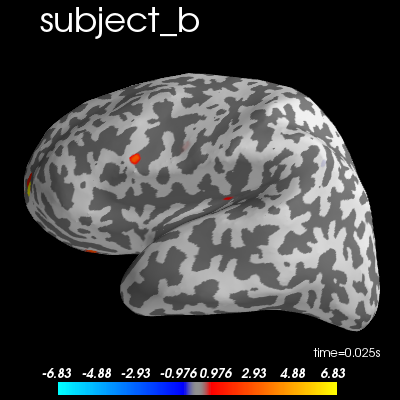
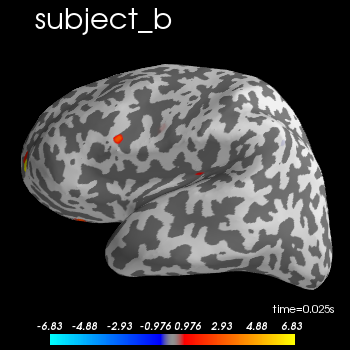
rebuilt docs

diff --git a/searchindex.js b/searchindex.js
@@ -1,1 +1,1 @@
-Search.setIndex({docnames:["api","auto_examples/index","auto_examples/plot_group_lasso","auto_examples/plot_process_meg","auto_examples/sg_execution_times","generated/groupmne.compute_fwd","generated/groupmne.compute_group_inverse","generated/groupmne.compute_inv_data","index"],envversion:{"sphinx.domains.c":1,"sphinx.domains.changeset":1,"sphinx.domains.citation":1,"sphinx.domains.cpp":1,"sphinx.domains.javascript":1,"sphinx.domains.math":2,"sphinx.domains.python":1,"sphinx.domains.rst":1,"sphinx.domains.std":1,"sphinx.ext.intersphinx":1,"sphinx.ext.viewcode":1,sphinx:56},filenames:["api.rst","auto_examples/index.rst","auto_examples/plot_group_lasso.rst","auto_examples/plot_process_meg.rst","auto_examples/sg_execution_times.rst","generated/groupmne.compute_fwd.rst","generated/groupmne.compute_group_inverse.rst","generated/groupmne.compute_inv_data.rst","index.rst"],objects:{groupmne:{compute_fwd:[5,0,1,""],compute_group_inverse:[6,0,1,""],compute_inv_data:[7,0,1,""]}},objnames:{"0":["py","function","Python function"]},objtypes:{"0":"py:function"},terms:{"300m":[2,3],"50m":[2,3],"default":6,"final":7,"float":[6,7],"function":[0,2],"import":[2,3],"int":6,"return":[2,3,6,7],"true":[2,3,6],"while":[],Doing:2,For:[2,6,8],IDs:2,Not:2,The:[2,3,6,8],Using:[2,7],abs:2,across:[2,6,7],activ:[2,6,8],add_proj:[],add_text:2,addit:6,after:[2,3],aim:[2,3],align:[2,7],all:[1,6,8],alpha:[2,6],alpha_max:6,ani:8,append:[2,3],appli:2,argument:6,arrai:[6,7],aspect:[],assum:[],author:[2,3],auto_exampl:4,auto_examples_jupyt:1,auto_examples_python:1,autossp:2,avail:2,ave:[],averag:[2,3],axes:[2,3],baselin:[2,3],been:[],befor:[2,3],bem:2,bem_fnam:5,bem_fname_:2,between:2,bind:8,bool:6,brain:2,bsd:[2,3],bug:8,call:[],can:[2,7],categori:[],ch_type:[2,7],channel:[2,7],claus:[2,3],click:[2,3],clim:2,clone:8,closer:2,code:[1,2,3],com:8,compens:2,comput:[2,3,7],compute_covari:[2,3],compute_fwd:2,compute_gain:6,compute_group_invers:2,compute_inv_data:[2,6],conda:8,condit:[2,3],congruent:8,consid:[],contain:2,correct:2,cov:[2,3,7],cov_fnam:[2,3],cov_nam:[],cov_name_:[],covari:[2,3,7],creat:[2,8],ctf:[],current:2,data:[6,7],data_path:[2,3],dataset:[2,3],decim:2,def:[2,3],del:3,depth:[2,6],develop:8,dict:[2,3,6,7],dictionari:2,dim:2,dimens:2,document:[],done:6,dorsal:2,download:1,each:[2,3,6,7],eeg:[6,7,8],eigenvalu:2,element:7,els:2,encount:8,end:[2,3],env:8,environ:[2,3,8],eof:[],epoch:[2,3],epochs_:2,eps:2,estim:[2,3,6,7],ev_nam:[],ev_name_:[],event:[2,3],event_id:[2,3],evok:[2,7],evoked_:[2,3],exampl:[2,3],execut:4,exist:2,expandus:[2,3],fals:[2,3],fetch:2,few:[2,3],fif:[2,3],file:[2,4,8],find_ev:[2,3],first:[2,3],follow:2,fontsiz:[2,3],forward:[6,7],found:2,fraction:6,freesurf:2,frequenc:2,from:[2,3],fsaverag:[2,5],full:[2,3],further:8,fwd:[2,7],gain:[2,6,7],galleri:[1,2,3],gener:[2,3],geometri:2,get_epoch_cov:3,get_src_refer:2,git:8,github:8,grad:[2,3,7],grade:2,group:[3,6,7],group_info:[2,6,7],group_model:[2,6],grouplasso:[2,6],groupmn:[2,8],guarante:2,gyri:2,have:[],help:8,hemi:2,here:[2,3],hf_sef:[2,3],hf_sef_15min:[],hf_sef_15min_raw:[2,3],hicham:[2,3,8],hichamjanati:[2,8],high:2,how:[2,3],http:8,hyperparamet:6,ico:2,icosahedr:2,icosahedron:2,idl:2,improv:2,independ:6,info:[2,3,5],inform:[7,8],initi:7,initial_tim:2,inria:[2,3,8],instanc:7,instant:[2,3],interest:[],introductori:1,invalid:[],invers:[6,8],ipynb:[2,3],item:2,janati:[2,3,8],joint:[1,4,6],jointli:[3,8],jupyt:[1,2,3],kind:2,kwarg:6,lasso:[3,6],last:[],later:2,leverag:2,licens:[2,3],line:[],list:7,load:2,local:[1,4,6],locat:2,log:2,mag:[2,7],mani:8,map:[2,7],match:2,matplotlib:[2,3],matric:7,matrix:2,max:2,mean:[2,3],meg:8,meg_path:[2,3],memori:[],metadata:2,method:[2,6],mindist:[2,5],minim:8,minut:[2,3],mne:[2,3],mne_data:2,mode:2,model:[1,4,6,7],more:7,morph:[2,5,7],most:[],mri:2,multi:[1,4],n_channel:[6,7],n_job:[2,6],n_sourc:[2,6,7],n_subject:[6,7],n_time:[6,7],nave:[],nearest:2,need:2,neighbor:2,nois:[2,3,7],noise_cov:2,noise_cov_:[2,3,7],none:[2,3,5],normal:[2,6],notebook:[1,2,3],now:[2,6],nurminen:2,object:6,omit:2,one:[2,7],onli:[2,6],open:2,oper:[2,7],option:6,otherwis:[6,8],out:2,overlap:6,packag:8,parallel:2,parallel_func:2,paramet:[2,6,7],pars:[],pass:6,path:[2,3],pattern:2,pca:2,perform:8,pick:[2,3],pick_typ:[2,3],pleas:8,plot:[2,3],plot_group_lasso:[2,4],plot_process_meg:3,plt:[2,3],point:[2,6,7],pos_lim:2,print:[2,3],problem:[6,8],process:[],process_meg:2,proj:[2,3],project:2,projector:2,promot:6,provid:2,purpos:[2,3],pyplot:[2,3],python:[1,2,3,8],rang:2,rank:2,ravel:[2,3],raw:[2,3],raw_nam:[2,3],raw_name_:[2,3],read:2,read_cov:2,read_evok:[],read_raw_fif:[2,3],readi:2,recent:[],recommend:8,reconstruct:7,refer:7,regular:[6,8],requir:2,resolut:2,respect:7,return_stc:[2,6],run:2,run_func:2,same:2,script:2,sec:2,second:2,see:[3,8],sef:[2,3],sef_right:[],sef_right_raw:[2,3],select:2,self:[],set:[2,6],set_titl:[2,3],setup:8,shape:2,sharei:[2,3],show:[2,3],shown:[],similar:2,sinc:2,singular:2,size:2,small:[2,8],smoothing_step:2,sol:2,solv:[6,8],solver:6,sourc:[1,3,4,5,6,7],sourcespac:7,space:[2,5,7],specifi:[],sphere:2,sphinx:[1,2,3],src_ref:[2,5,7],ssp:2,start:[2,3],stc:[2,6],step:2,str:[6,7],subdivis:2,subj:[2,3],subject:[1,4,5,6,7],subject_:[2,3],subject_a:[2,3],subject_b:[2,3],subjects_dir:[2,3,5],subplot:[2,3],subspac:2,sulci:2,support:[6,7],surf:2,surfac:2,surfer_kwarg:2,syntax:[],syntaxerror:[],t_idx:2,take:[2,3],task:[1,4],than:7,thi:[2,3,8],time:[2,6,7],time_as_index:2,time_unit:2,titl:2,tmax:[2,3,7],tmin:[2,3,7],toler:2,total:[2,4],traceback:[],tran:2,trans_fnam:5,trans_fname_:2,treat:6,triangl:2,triangul:2,trigger:[2,3],tutori:[2,3,8],two:2,type:7,unexpect:[],usag:[],use:[2,6],used:7,user:2,using:[2,8],valu:2,ventral:2,version:8,vertex:2,vertic:6,view:2,visual:2,want:2,warn:2,webpag:[],weight:6,which:[2,6],white:2,whiten:[2,7],without:2,work:8,write_cov:[2,3],yet:7,yml:8,you:2,zero:2,zip:[1,2,3]},titles:["API Documentation","General examples","Multi-subject joint source localization with multi-task models","Multi-subject MEG processing","Computation times","groupmne.compute_fwd","groupmne.compute_group_inverse","groupmne.compute_inv_data","multi-subject source localization with MNE"],titleterms:{api:0,code:0,comput:4,compute_fwd:5,compute_group_invers:6,compute_inv_data:7,contact:8,data:[2,3],descript:8,document:0,download:[2,3],exampl:[1,8],forward:2,gener:1,groupmn:[5,6,7],instal:8,invers:2,joint:2,local:[2,8],meg:[2,3],mne:8,model:2,multi:[2,3,8],problem:2,process:[2,3],solv:2,sourc:[2,8],subject:[2,3,8],syntaxerror:[],task:2,time:4}})
+Search.setIndex({docnames:["api","auto_examples/index","auto_examples/plot_group_lasso","auto_examples/plot_process_meg","auto_examples/sg_execution_times","generated/groupmne.compute_fwd","generated/groupmne.compute_group_inverse","generated/groupmne.compute_inv_data","index"],envversion:{"sphinx.domains.c":1,"sphinx.domains.changeset":1,"sphinx.domains.citation":1,"sphinx.domains.cpp":1,"sphinx.domains.javascript":1,"sphinx.domains.math":2,"sphinx.domains.python":1,"sphinx.domains.rst":1,"sphinx.domains.std":1,"sphinx.ext.intersphinx":1,"sphinx.ext.viewcode":1,sphinx:56},filenames:["api.rst","auto_examples/index.rst","auto_examples/plot_group_lasso.rst","auto_examples/plot_process_meg.rst","auto_examples/sg_execution_times.rst","generated/groupmne.compute_fwd.rst","generated/groupmne.compute_group_inverse.rst","generated/groupmne.compute_inv_data.rst","index.rst"],objects:{groupmne:{compute_fwd:[5,0,1,""],compute_group_inverse:[6,0,1,""],compute_inv_data:[7,0,1,""]}},objnames:{"0":["py","function","Python function"]},objtypes:{"0":"py:function"},terms:{"300m":[2,3],"50m":[2,3],"default":6,"final":7,"float":[6,7],"function":[0,2],"import":[2,3],"int":6,"return":[2,3,6,7],"true":[2,3,6],"while":[],Doing:2,For:[2,6,8],IDs:2,Not:2,The:[2,3,6,8],Using:[2,7],abs:2,across:[2,6,7],activ:[2,6,8],add_proj:[],add_text:2,addit:6,after:[2,3],aim:[2,3],align:[2,7],all:[1,6,8],alpha:[2,6],alpha_max:6,ani:8,append:[2,3],appli:2,argument:6,arrai:[6,7],aspect:[],assum:[],author:[2,3],auto_exampl:4,auto_examples_jupyt:1,auto_examples_python:1,autossp:2,avail:2,ave:[],averag:[2,3],axes:[2,3],baselin:[2,3],been:[],befor:[2,3],bem:2,bem_fnam:5,bem_fname_:2,between:2,bind:8,bool:6,brain:2,bsd:[2,3],bug:8,call:[],can:[2,7],categori:[],ch_type:[2,7],channel:[2,7],claus:[2,3],click:[2,3],clim:2,clone:8,closer:2,code:[1,2,3],com:8,compens:2,comput:[2,3,7],compute_covari:[2,3],compute_fwd:2,compute_gain:6,compute_group_invers:2,compute_inv_data:[2,6],conda:8,condit:[2,3],congruent:8,consid:[],contain:2,correct:2,cov:[2,3,7],cov_fnam:[2,3],cov_nam:[],cov_name_:[],covari:[2,3,7],creat:[2,8],ctf:[],current:2,data:[6,7],data_path:[2,3],dataset:[2,3],decim:2,def:[2,3],del:3,depth:[2,6],develop:8,dict:[2,3,6,7],dictionari:2,dim:2,dimens:2,document:[],done:6,dorsal:2,download:1,each:[2,3,6,7],eeg:[6,7,8],eigenvalu:2,element:7,els:2,encount:8,end:[2,3],env:8,environ:[2,3,8],eof:[],epoch:[2,3],epochs_:2,eps:2,estim:[2,3,6,7],ev_nam:[],ev_name_:[],event:[2,3],event_id:[2,3],evok:[2,7],evoked_:[2,3],exampl:[2,3],execut:4,exist:2,expandus:[2,3],fals:[2,3],fetch:2,few:[2,3],fif:[2,3],file:[2,4,8],find_ev:[2,3],first:[2,3],follow:2,fontsiz:[2,3],forward:[6,7],found:2,fraction:6,freesurf:2,frequenc:2,from:[2,3],fsaverag:[2,5],full:[2,3],further:8,fwd:[2,7],gain:[2,6,7],galleri:[1,2,3],gener:[2,3],geometri:2,get_epoch_cov:3,get_src_refer:2,git:8,github:8,grad:[2,3,7],grade:2,group:[3,6,7],group_info:[2,6,7],group_model:[2,6],grouplasso:[2,6],groupmn:[2,8],guarante:2,gyri:2,have:[],help:8,hemi:2,here:[2,3],hf_sef:[2,3],hf_sef_15min:[],hf_sef_15min_raw:[2,3],hicham:[2,3,8],hichamjanati:[2,8],high:2,how:[2,3],http:8,hyperparamet:6,ico:2,icosahedr:2,icosahedron:2,idl:2,improv:2,independ:6,info:[2,3,5],inform:[7,8],initi:7,initial_tim:2,inria:[2,3,8],instanc:7,instant:[2,3],interest:[],introductori:1,invalid:[],invers:[6,8],ipynb:[2,3],item:2,janati:[2,3,8],joint:[1,4,6],jointli:[3,8],jupyt:[1,2,3],kind:2,kwarg:6,lasso:[3,6],last:[],later:2,leverag:2,licens:[2,3],line:[],list:7,load:2,local:[1,4,6],locat:2,log:2,mag:[2,7],mani:8,map:[2,7],match:2,matplotlib:[2,3],matric:7,matrix:2,max:2,mean:[2,3],meg:8,meg_path:[2,3],memori:[],metadata:2,method:[2,6],mindist:[2,5],minim:8,minut:[2,3],mne:[2,3],mne_data:2,mode:2,model:[1,4,6,7],more:7,morph:[2,5,7],most:[],mri:2,multi:[1,4],n_channel:[6,7],n_job:[2,6],n_sourc:[2,6,7],n_subject:[6,7],n_time:[6,7],nave:[],nearest:2,need:2,neighbor:2,nois:[2,3,7],noise_cov:2,noise_cov_:[2,3,7],none:[2,3,5],normal:[2,6],notebook:[1,2,3],now:[2,6],nurminen:2,object:6,omit:2,one:[2,7],onli:[2,6],open:2,oper:[2,7],option:6,otherwis:[6,8],out:2,overlap:6,packag:8,parallel:2,parallel_func:2,paramet:[2,6,7],pars:[],pass:6,path:[2,3],pattern:2,pca:2,perform:8,pick:[2,3],pick_typ:[2,3],pleas:8,plot:[2,3],plot_group_lasso:[2,4],plot_process_meg:3,plt:[2,3],point:[2,6,7],pos_lim:2,print:[2,3],problem:[6,8],process:[],process_meg:2,proj:[2,3],project:2,projector:2,promot:6,provid:2,purpos:[2,3],pyplot:[2,3],python:[1,2,3,8],rang:2,rank:2,ravel:[2,3],raw:[2,3],raw_nam:[2,3],raw_name_:[2,3],read:2,read_cov:2,read_evok:[],read_raw_fif:[2,3],readi:2,recent:[],recommend:8,reconstruct:7,refer:7,regular:[6,8],requir:2,resolut:2,respect:7,return_stc:[2,6],run:2,run_func:2,same:2,script:2,sec:2,second:2,see:[3,8],sef:[2,3],sef_right:[],sef_right_raw:[2,3],select:2,self:[],set:[2,6],set_titl:[2,3],setup:8,shape:2,sharei:[2,3],show:[2,3],shown:[],similar:2,sinc:2,singular:2,size:2,small:[2,8],smoothing_step:2,sol:2,solv:[6,8],solver:6,sourc:[1,3,4,5,6,7],sourcespac:7,space:[2,5,7],specifi:[],sphere:2,sphinx:[1,2,3],src_ref:[2,5,7],ssp:2,start:[2,3],stc:[2,6],step:2,str:[6,7],subdivis:2,subj:[2,3],subject:[1,4,5,6,7],subject_:[2,3],subject_a:[2,3],subject_b:[2,3],subjects_dir:[2,3,5],subplot:[2,3],subspac:2,sulci:2,support:[6,7],surf:2,surfac:2,surfer_kwarg:2,syntax:[],syntaxerror:[],t_idx:2,take:[2,3],task:[1,4],than:7,thi:[2,3,8],time:[2,6,7],time_as_index:2,time_unit:2,titl:2,tmax:[2,3,7],tmin:[2,3,7],toler:2,total:[2,4],traceback:[],tran:2,trans_fnam:5,trans_fname_:2,treat:6,triangl:2,triangul:2,trigger:[2,3],tutori:[2,3,8],two:2,type:7,unexpect:[],usag:[],use:[2,6],used:7,user:2,using:[2,8],valu:2,ventral:[],version:8,vertex:2,vertic:6,view:2,visual:[],want:2,warn:2,webpag:[],weight:6,which:[2,6],white:2,whiten:[2,7],without:2,work:8,write_cov:[2,3],yet:7,yml:8,you:2,zero:2,zip:[1,2,3]},titles:["API Documentation","General examples","Multi-subject joint source localization with multi-task models","Multi-subject MEG processing","Computation times","groupmne.compute_fwd","groupmne.compute_group_inverse","groupmne.compute_inv_data","multi-subject source localization with MNE"],titleterms:{api:0,code:0,comput:4,compute_fwd:5,compute_group_invers:6,compute_inv_data:7,contact:8,data:[2,3],descript:8,document:0,download:[2,3],exampl:[1,8],forward:2,gener:1,groupmn:[5,6,7],instal:8,invers:2,joint:2,local:[2,8],meg:[2,3],mne:8,model:2,multi:[2,3,8],problem:2,process:[2,3],solv:2,sourc:[2,8],subject:[2,3,8],syntaxerror:[],task:2,time:4}})

diff --git a/auto_examples/plot_group_lasso.html b/auto_examples/plot_group_lasso.html
@@ -399,21 +399,19 @@ Computing data rank from covariance with rank=None
                                   <span class="n">method</span><span class="o">=</span><span class="s2">&quot;grouplasso&quot;</span><span class="p">,</span>
                                   <span class="n">depth</span><span class="o">=</span><span class="mf">0.9</span><span class="p">,</span> <span class="n">alpha</span><span class="o">=</span><span class="mf">0.1</span><span class="p">,</span> <span class="n">return_stc</span><span class="o">=</span><span class="kc">True</span><span class="p">,</span>
                                   <span class="n">n_jobs</span><span class="o">=</span><span class="mi">4</span><span class="p">)</span>
-</pre></div>
-</div>
-<p>Visualize ventral view</p>
-<div class="highlight-default notranslate"><div class="highlight"><pre><span></span><span class="n">t</span> <span class="o">=</span> <span class="mf">0.025</span>
+
+<span class="n">t</span> <span class="o">=</span> <span class="mf">0.025</span>
 <span class="n">t_idx</span> <span class="o">=</span> <span class="n">stcs</span><span class="p">[</span><span class="mi">0</span><span class="p">]</span><span class="o">.</span><span class="n">time_as_index</span><span class="p">(</span><span class="n">t</span><span class="p">)</span>
-<span class="n">view</span> <span class="o">=</span> <span class="s2">&quot;lateral&quot;</span>
-<span class="k">for</span> <span class="n">stc</span><span class="p">,</span> <span class="n">subject</span> <span class="ow">in</span> <span class="nb">zip</span><span class="p">(</span><span class="n">stcs</span><span class="p">,</span> <span class="n">subjects</span><span class="p">):</span>
-    <span class="n">m</span> <span class="o">=</span> <span class="nb">abs</span><span class="p">(</span><span class="n">stc</span><span class="o">.</span><span class="n">data</span><span class="p">[:</span><span class="n">group_info</span><span class="p">[</span><span class="s2">&quot;n_sources&quot;</span><span class="p">][</span><span class="mi">0</span><span class="p">],</span> <span class="n">t_idx</span><span class="p">])</span><span class="o">.</span><span class="n">max</span><span class="p">()</span>
-    <span class="n">surfer_kwargs</span> <span class="o">=</span> <span class="nb">dict</span><span class="p">(</span>
-        <span class="n">clim</span><span class="o">=</span><span class="nb">dict</span><span class="p">(</span><span class="n">kind</span><span class="o">=</span><span class="s1">&#39;value&#39;</span><span class="p">,</span> <span class="n">pos_lims</span><span class="o">=</span><span class="p">[</span><span class="mf">0.</span><span class="p">,</span> <span class="mf">0.1</span> <span class="o">*</span> <span class="n">m</span><span class="p">,</span> <span class="n">m</span><span class="p">]),</span>
-        <span class="n">hemi</span><span class="o">=</span><span class="s1">&#39;lh&#39;</span><span class="p">,</span> <span class="n">subjects_dir</span><span class="o">=</span><span class="n">subjects_dir</span><span class="p">,</span>
-        <span class="n">initial_time</span><span class="o">=</span><span class="n">t</span><span class="p">,</span> <span class="n">time_unit</span><span class="o">=</span><span class="s1">&#39;s&#39;</span><span class="p">,</span> <span class="n">size</span><span class="o">=</span><span class="p">(</span><span class="mi">400</span><span class="p">,</span> <span class="mi">400</span><span class="p">),</span>
-        <span class="n">smoothing_steps</span><span class="o">=</span><span class="mi">5</span><span class="p">)</span>
-    <span class="n">brain</span> <span class="o">=</span> <span class="n">stc</span><span class="o">.</span><span class="n">plot</span><span class="p">(</span><span class="o">**</span><span class="n">surfer_kwargs</span><span class="p">,</span> <span class="n">views</span><span class="o">=</span><span class="n">view</span><span class="p">)</span>
-    <span class="n">brain</span><span class="o">.</span><span class="n">add_text</span><span class="p">(</span><span class="mf">0.1</span><span class="p">,</span> <span class="mf">0.9</span><span class="p">,</span> <span class="n">subject</span><span class="p">,</span> <span class="s2">&quot;title&quot;</span><span class="p">)</span>
+<span class="k">for</span> <span class="n">view</span> <span class="ow">in</span> <span class="p">[</span><span class="s2">&quot;lateral&quot;</span><span class="p">,</span> <span class="s2">&quot;dorsal&quot;</span><span class="p">]:</span>
+    <span class="k">for</span> <span class="n">stc</span><span class="p">,</span> <span class="n">subject</span> <span class="ow">in</span> <span class="nb">zip</span><span class="p">(</span><span class="n">stcs</span><span class="p">,</span> <span class="n">subjects</span><span class="p">):</span>
+        <span class="n">m</span> <span class="o">=</span> <span class="nb">abs</span><span class="p">(</span><span class="n">stc</span><span class="o">.</span><span class="n">data</span><span class="p">[:</span><span class="n">group_info</span><span class="p">[</span><span class="s2">&quot;n_sources&quot;</span><span class="p">][</span><span class="mi">0</span><span class="p">],</span> <span class="n">t_idx</span><span class="p">])</span><span class="o">.</span><span class="n">max</span><span class="p">()</span>
+        <span class="n">surfer_kwargs</span> <span class="o">=</span> <span class="nb">dict</span><span class="p">(</span>
+            <span class="n">clim</span><span class="o">=</span><span class="nb">dict</span><span class="p">(</span><span class="n">kind</span><span class="o">=</span><span class="s1">&#39;value&#39;</span><span class="p">,</span> <span class="n">pos_lims</span><span class="o">=</span><span class="p">[</span><span class="mf">0.</span><span class="p">,</span> <span class="mf">0.1</span> <span class="o">*</span> <span class="n">m</span><span class="p">,</span> <span class="n">m</span><span class="p">]),</span>
+            <span class="n">hemi</span><span class="o">=</span><span class="s1">&#39;lh&#39;</span><span class="p">,</span> <span class="n">subjects_dir</span><span class="o">=</span><span class="n">subjects_dir</span><span class="p">,</span>
+            <span class="n">initial_time</span><span class="o">=</span><span class="n">t</span><span class="p">,</span> <span class="n">time_unit</span><span class="o">=</span><span class="s1">&#39;s&#39;</span><span class="p">,</span> <span class="n">size</span><span class="o">=</span><span class="p">(</span><span class="mi">350</span><span class="p">,</span> <span class="mi">350</span><span class="p">),</span>
+            <span class="n">smoothing_steps</span><span class="o">=</span><span class="mi">5</span><span class="p">)</span>
+        <span class="n">brain</span> <span class="o">=</span> <span class="n">stc</span><span class="o">.</span><span class="n">plot</span><span class="p">(</span><span class="o">**</span><span class="n">surfer_kwargs</span><span class="p">,</span> <span class="n">views</span><span class="o">=</span><span class="n">view</span><span class="p">)</span>
+        <span class="n">brain</span><span class="o">.</span><span class="n">add_text</span><span class="p">(</span><span class="mf">0.1</span><span class="p">,</span> <span class="mf">0.9</span><span class="p">,</span> <span class="n">subject</span><span class="p">,</span> <span class="s2">&quot;title&quot;</span><span class="p">)</span>
 </pre></div>
 </div>
 <ul class="sphx-glr-horizontal">
@@ -421,27 +419,12 @@ Computing data rank from covariance with rank=None
 </li>
 <li><img alt="../_images/sphx_glr_plot_group_lasso_003.png" class="sphx-glr-multi-img" src="../_images/sphx_glr_plot_group_lasso_003.png" />
 </li>
-</ul>
-<p>Visualize dorsal view</p>
-<div class="highlight-default notranslate"><div class="highlight"><pre><span></span><span class="n">view</span> <span class="o">=</span> <span class="s2">&quot;dorsal&quot;</span>
-<span class="k">for</span> <span class="n">stc</span><span class="p">,</span> <span class="n">subject</span> <span class="ow">in</span> <span class="nb">zip</span><span class="p">(</span><span class="n">stcs</span><span class="p">,</span> <span class="n">subjects</span><span class="p">):</span>
-    <span class="n">m</span> <span class="o">=</span> <span class="nb">abs</span><span class="p">(</span><span class="n">stc</span><span class="o">.</span><span class="n">data</span><span class="p">[:</span><span class="n">group_info</span><span class="p">[</span><span class="s2">&quot;n_sources&quot;</span><span class="p">][</span><span class="mi">0</span><span class="p">],</span> <span class="n">t_idx</span><span class="p">])</span><span class="o">.</span><span class="n">max</span><span class="p">()</span>
-    <span class="n">surfer_kwargs</span> <span class="o">=</span> <span class="nb">dict</span><span class="p">(</span>
-        <span class="n">clim</span><span class="o">=</span><span class="nb">dict</span><span class="p">(</span><span class="n">kind</span><span class="o">=</span><span class="s1">&#39;value&#39;</span><span class="p">,</span> <span class="n">pos_lims</span><span class="o">=</span><span class="p">[</span><span class="mf">0.</span><span class="p">,</span> <span class="mf">0.1</span> <span class="o">*</span> <span class="n">m</span><span class="p">,</span> <span class="n">m</span><span class="p">]),</span>
-        <span class="n">hemi</span><span class="o">=</span><span class="s1">&#39;lh&#39;</span><span class="p">,</span> <span class="n">subjects_dir</span><span class="o">=</span><span class="n">subjects_dir</span><span class="p">,</span>
-        <span class="n">initial_time</span><span class="o">=</span><span class="n">t</span><span class="p">,</span> <span class="n">time_unit</span><span class="o">=</span><span class="s1">&#39;s&#39;</span><span class="p">,</span> <span class="n">size</span><span class="o">=</span><span class="p">(</span><span class="mi">400</span><span class="p">,</span> <span class="mi">400</span><span class="p">),</span>
-        <span class="n">smoothing_steps</span><span class="o">=</span><span class="mi">5</span><span class="p">)</span>
-    <span class="n">brain</span> <span class="o">=</span> <span class="n">stc</span><span class="o">.</span><span class="n">plot</span><span class="p">(</span><span class="o">**</span><span class="n">surfer_kwargs</span><span class="p">,</span> <span class="n">views</span><span class="o">=</span><span class="n">view</span><span class="p">)</span>
-    <span class="n">brain</span><span class="o">.</span><span class="n">add_text</span><span class="p">(</span><span class="mf">0.1</span><span class="p">,</span> <span class="mf">0.9</span><span class="p">,</span> <span class="n">subject</span><span class="p">,</span> <span class="s2">&quot;title&quot;</span><span class="p">)</span>
-</pre></div>
-</div>
-<ul class="sphx-glr-horizontal">
 <li><img alt="../_images/sphx_glr_plot_group_lasso_004.png" class="sphx-glr-multi-img" src="../_images/sphx_glr_plot_group_lasso_004.png" />
 </li>
 <li><img alt="../_images/sphx_glr_plot_group_lasso_005.png" class="sphx-glr-multi-img" src="../_images/sphx_glr_plot_group_lasso_005.png" />
 </li>
 </ul>
-<p class="sphx-glr-timing"><strong>Total running time of the script:</strong> ( 3 minutes  13.628 seconds)</p>
+<p class="sphx-glr-timing"><strong>Total running time of the script:</strong> ( 2 minutes  53.833 seconds)</p>
 <div class="sphx-glr-footer class sphx-glr-footer-example docutils container" id="sphx-glr-download-auto-examples-plot-group-lasso-py">
 <div class="sphx-glr-download docutils container">
 <p><a class="reference download internal" download="" href="../_downloads/e66cf913a6355c593439c84a85c97b44/plot_group_lasso.py"><code class="xref download docutils literal notranslate"><span class="pre">Download</span> <span class="pre">Python</span> <span class="pre">source</span> <span class="pre">code:</span> <span class="pre">plot_group_lasso.py</span></code></a></p>

diff --git a/auto_examples/sg_execution_times.html b/auto_examples/sg_execution_times.html
@@ -113,9 +113,9 @@
       
   <div class="section" id="computation-times">
 <span id="sphx-glr-auto-examples-sg-execution-times"></span><h1>Computation times<a class="headerlink" href="#computation-times" title="Permalink to this headline">¶</a></h1>
-<p><strong>03:13.628</strong> total execution time for <strong>auto_examples</strong> files:</p>
+<p><strong>02:53.833</strong> total execution time for <strong>auto_examples</strong> files:</p>
 <ul class="simple">
-<li><p><strong>03:13.628</strong>: <a class="reference internal" href="plot_group_lasso.html#sphx-glr-auto-examples-plot-group-lasso-py"><span class="std std-ref">Multi-subject joint source localization with multi-task models</span></a> (<code class="docutils literal notranslate"><span class="pre">plot_group_lasso.py</span></code>)</p></li>
+<li><p><strong>02:53.833</strong>: <a class="reference internal" href="plot_group_lasso.html#sphx-glr-auto-examples-plot-group-lasso-py"><span class="std std-ref">Multi-subject joint source localization with multi-task models</span></a> (<code class="docutils literal notranslate"><span class="pre">plot_group_lasso.py</span></code>)</p></li>
 </ul>
 </div>
 

diff --git a/_downloads/e66cf913a6355c593439c84a85c97b44/plot_group_lasso.py b/_downloads/e66cf913a6355c593439c84a85c97b44/plot_group_lasso.py
@@ -128,31 +128,15 @@ stcs, log = compute_group_inverse(gains, M, group_info,
                                   depth=0.9, alpha=0.1, return_stc=True,
                                   n_jobs=4)
 
-############################################
-# Visualize ventral view
 t = 0.025
 t_idx = stcs[0].time_as_index(t)
-view = "lateral"
-for stc, subject in zip(stcs, subjects):
-    m = abs(stc.data[:group_info["n_sources"][0], t_idx]).max()
-    surfer_kwargs = dict(
-        clim=dict(kind='value', pos_lims=[0., 0.1 * m, m]),
-        hemi='lh', subjects_dir=subjects_dir,
-        initial_time=t, time_unit='s', size=(400, 400),
-        smoothing_steps=5)
-    brain = stc.plot(**surfer_kwargs, views=view)
-    brain.add_text(0.1, 0.9, subject, "title")
-
-############################################
-# Visualize dorsal view
-
-view = "dorsal"
-for stc, subject in zip(stcs, subjects):
-    m = abs(stc.data[:group_info["n_sources"][0], t_idx]).max()
-    surfer_kwargs = dict(
-        clim=dict(kind='value', pos_lims=[0., 0.1 * m, m]),
-        hemi='lh', subjects_dir=subjects_dir,
-        initial_time=t, time_unit='s', size=(400, 400),
-        smoothing_steps=5)
-    brain = stc.plot(**surfer_kwargs, views=view)
-    brain.add_text(0.1, 0.9, subject, "title")
+for view in ["lateral", "dorsal"]:
+    for stc, subject in zip(stcs, subjects):
+        m = abs(stc.data[:group_info["n_sources"][0], t_idx]).max()
+        surfer_kwargs = dict(
+            clim=dict(kind='value', pos_lims=[0., 0.1 * m, m]),
+            hemi='lh', subjects_dir=subjects_dir,
+            initial_time=t, time_unit='s', size=(350, 350),
+            smoothing_steps=5)
+        brain = stc.plot(**surfer_kwargs, views=view)
+        brain.add_text(0.1, 0.9, subject, "title")
